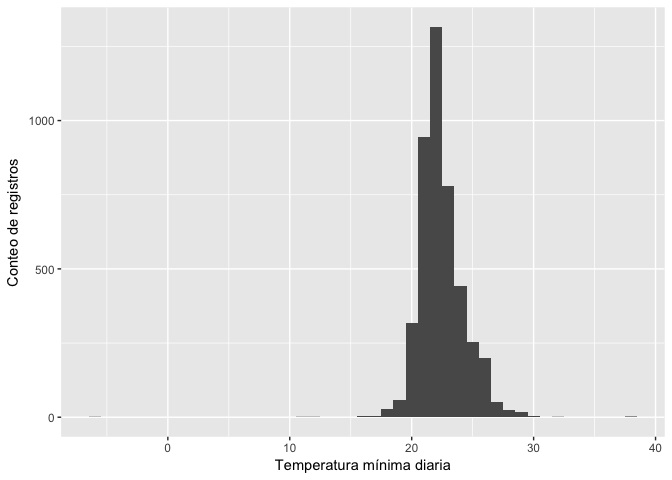
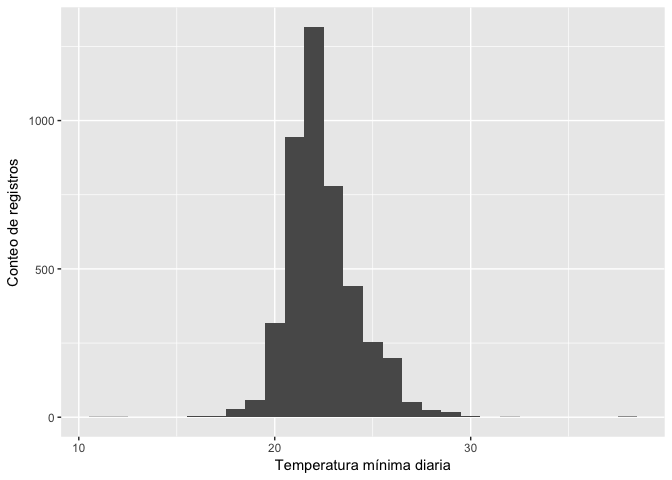
mejoras

diff --git a/DatosClimaticos.md b/DatosClimaticos.md
@@ -22,6 +22,8 @@ A leer GoogleSheet con los datos del ACG y cargar datos de Estación Santa Rosa:
 SR <- gs_title("EstacionesACG")
 ```
 
+    ## Auto-refreshing stale OAuth token.
+
     ## Warning in strptime(x, fmt, tz = "GMT"): unknown timezone 'zone/tz/2017c.
     ## 1.0/zoneinfo/America/Costa_Rica'
 
@@ -185,7 +187,7 @@ summary(SantaRosa$TmaxC)
 ```
 
     ##    Min. 1st Qu.  Median    Mean 3rd Qu.    Max.    NA's 
-    ##   21.11   30.00   33.00  129.43  298.00  461.67    2738
+    ##   21.11   30.00   33.00  129.46  298.00  461.67    2738
 
 Temperatura mínima:
 
@@ -201,7 +203,7 @@ summary(SantaRosa$TminC)
 ```
 
     ##    Min. 1st Qu.  Median    Mean 3rd Qu.    Max.    NA's 
-    ##  -6.111  22.000  23.000  79.043 215.000 379.444    2729
+    ##   15.56   22.00   23.00   79.05  215.00  379.44    2729
 
 Los valores de más de 100 C se asumen son valores donde no se les puso el decimal, por lo que hay que hacer una función que seleccione esos valores y los divida entre 10.
 
@@ -239,7 +241,7 @@ summary(SantaRosa$TmaxC)
 ```
 
     ##    Min. 1st Qu.  Median    Mean 3rd Qu.    Max.    NA's 
-    ##   12.94   29.50   31.11   31.53   33.33   46.17    2738
+    ##   15.72   29.50   31.11   31.53   33.33   46.17    2738
 
 Estadísticas generales para los años con datos completos o casi completos
 =========================================================================
@@ -329,13 +331,13 @@ SantaRosa_AnnosCompletos %>% select(fecha, Lluvia, TmaxC, TminC)%>% arrange(Tmin
 ```
 
     ## # A tibble: 5 x 4
-    ##        fecha Lluvia    TmaxC     TminC
-    ##       <date>  <dbl>    <dbl>     <dbl>
-    ## 1 2008-12-24      0 12.94444 -6.111111
-    ## 2 2007-05-08      0 18.50000 11.277778
-    ## 3 2007-05-09      0 19.05556 11.833333
-    ## 4 2001-01-18      0 31.11111 15.555556
-    ## 5 2010-12-20      0 31.11111 16.666667
+    ##        fecha Lluvia    TmaxC    TminC
+    ##       <date>  <dbl>    <dbl>    <dbl>
+    ## 1 2007-05-08    0.0 18.50000 11.27778
+    ## 2 2007-05-09    0.0 19.05556 11.83333
+    ## 3 2001-01-18    0.0 31.11111 15.55556
+    ## 4 2010-12-20    0.0 31.11111 16.66667
+    ## 5 2001-09-09   28.6 31.11111 17.22222
 
 Gráficos
 ========
@@ -389,3 +391,152 @@ SantaRosa_final <- select(SantaRosa_AnnosCompletos, fecha, TmaxC, TminC, Lluvia)
 
 write_csv(SantaRosa_final, "SantaRosa.csv")
 ```
+
+Estación Pitilla
+----------------
+
+Leer GoogleSheetes para esta estación:
+
+``` r
+Pitilla <- SR %>% gs_read(ws = "Pitilla")
+```
+
+    ## Accessing worksheet titled 'Pitilla'.
+
+    ## Parsed with column specification:
+    ## cols(
+    ##   dia = col_integer(),
+    ##   mes = col_integer(),
+    ##   anno = col_integer(),
+    ##   Lluvia = col_character(),
+    ##   Tmax = col_number(),
+    ##   Tmin = col_number(),
+    ##   Unid_T = col_character(),
+    ##   observ = col_character()
+    ## )
+
+Crear columna de fecha:
+
+``` r
+Pitilla$fecha <- ymd(paste(Pitilla$anno,Pitilla$mes,Pitilla$dia, sep = '/'))
+```
+
+Notese que "Lluvia" se importó como tipo "character", hay que convertirla a "numeric", pero primero hay que convertir el separador de decimales de coma a punto:
+
+``` r
+Pitilla$Lluvia <- gsub(",", ".", Pitilla$Lluvia, fixed = T)
+```
+
+``` r
+Pitilla$Lluvia <- as.numeric(Pitilla$Lluvia)
+```
+
+Transformar las temperaturas a centígrados: Primero hacer función de transformación
+
+``` r
+FaC <- function(x, y) {
+  ifelse (x == 'F', (y - 32) * (5/9), y)
+}
+```
+
+Ahora hacer la transformación para temperatura máxima (Tmax) y mínima (Tmin):
+
+``` r
+Pitilla$TmaxC <- FaC(Pitilla$Unid_T, Pitilla$Tmax)
+Pitilla$TminC <- FaC(Pitilla$Unid_T, Pitilla$Tmin)
+```
+
+Revisar rango de valores a través de un histograma.
+
+Lluvia:
+
+``` r
+ggplot(Pitilla) + geom_histogram(aes(x=Lluvia), binwidth = 10) +
+  labs(x = "Lluvia diaria", y = "Conteo de registros")
+```
+
+![](DatosClimaticos_files/figure-markdown_github-ascii_identifiers/unnamed-chunk-42-1.png)
+
+``` r
+summary(Pitilla$Lluvia)
+```
+
+    ##    Min. 1st Qu.  Median    Mean 3rd Qu.    Max.    NA's 
+    ##   0.000   0.200   3.800   9.991  13.000 128.050     131
+
+Temperatura máxima:
+
+``` r
+ggplot(Pitilla) + geom_histogram(aes(x=TmaxC), binwidth = 10) + 
+  labs(x = "Temperatura máxima diaria", y = "Conteo de registros")
+```
+
+![](DatosClimaticos_files/figure-markdown_github-ascii_identifiers/unnamed-chunk-44-1.png)
+
+``` r
+summary(Pitilla$Lluvia)
+```
+
+    ##    Min. 1st Qu.  Median    Mean 3rd Qu.    Max.    NA's 
+    ##   0.000   0.200   3.800   9.991  13.000 128.050     131
+
+Temperatura mínima:
+
+``` r
+ggplot(Pitilla) + geom_histogram(aes(x=TminC), binwidth = 10) + 
+  labs(x = "Temperatura máxima diaria", y = "Conteo de registros")
+```
+
+![](DatosClimaticos_files/figure-markdown_github-ascii_identifiers/unnamed-chunk-46-1.png)
+
+``` r
+summary(Pitilla$TminC)
+```
+
+    ##    Min. 1st Qu.  Median    Mean 3rd Qu.    Max.    NA's 
+    ##    14.0   192.0   202.0   180.7   211.0   267.0     400
+
+Los valores de más de 100 C se asumen son valores donde no se les puso el decimal, por lo que hay que hacer una función que seleccione esos valores y los divida entre 10.
+
+``` r
+deci <- function(x) {
+  ifelse (x > 100, x/10, x)
+}
+```
+
+Se aplica la función a las columnas TmaxC y TminC:
+
+``` r
+Pitilla$TmaxC <- deci(Pitilla$TmaxC)
+Pitilla$TminC <- deci(Pitilla$TminC)
+```
+
+Comprobar cambios con nuevos histogramas:
+
+``` r
+ggplot(Pitilla) + geom_histogram(aes(x=TminC), binwidth = 1) + 
+  labs(x = "Temperatura mínima diaria", y = "Conteo de registros")
+```
+
+![](DatosClimaticos_files/figure-markdown_github-ascii_identifiers/unnamed-chunk-50-1.png)
+
+``` r
+ggplot(Pitilla) + geom_histogram(aes(x=TmaxC), binwidth = 1) +
+  labs(x = "Temperatura máxima diaria", y = "Conteo de registros")
+```
+
+![](DatosClimaticos_files/figure-markdown_github-ascii_identifiers/unnamed-chunk-51-1.png)
+
+``` r
+summary(Pitilla$TminC)
+```
+
+    ##    Min. 1st Qu.  Median    Mean 3rd Qu.    Max.    NA's 
+    ##   10.10   19.60   20.40   20.34   21.15   26.70     400
+
+``` r
+summary(Pitilla$TmaxC)
+```
+
+    ##    Min. 1st Qu.  Median    Mean 3rd Qu.    Max.    NA's 
+    ##    6.00   21.70   23.80   23.53   25.80  287.20     150
